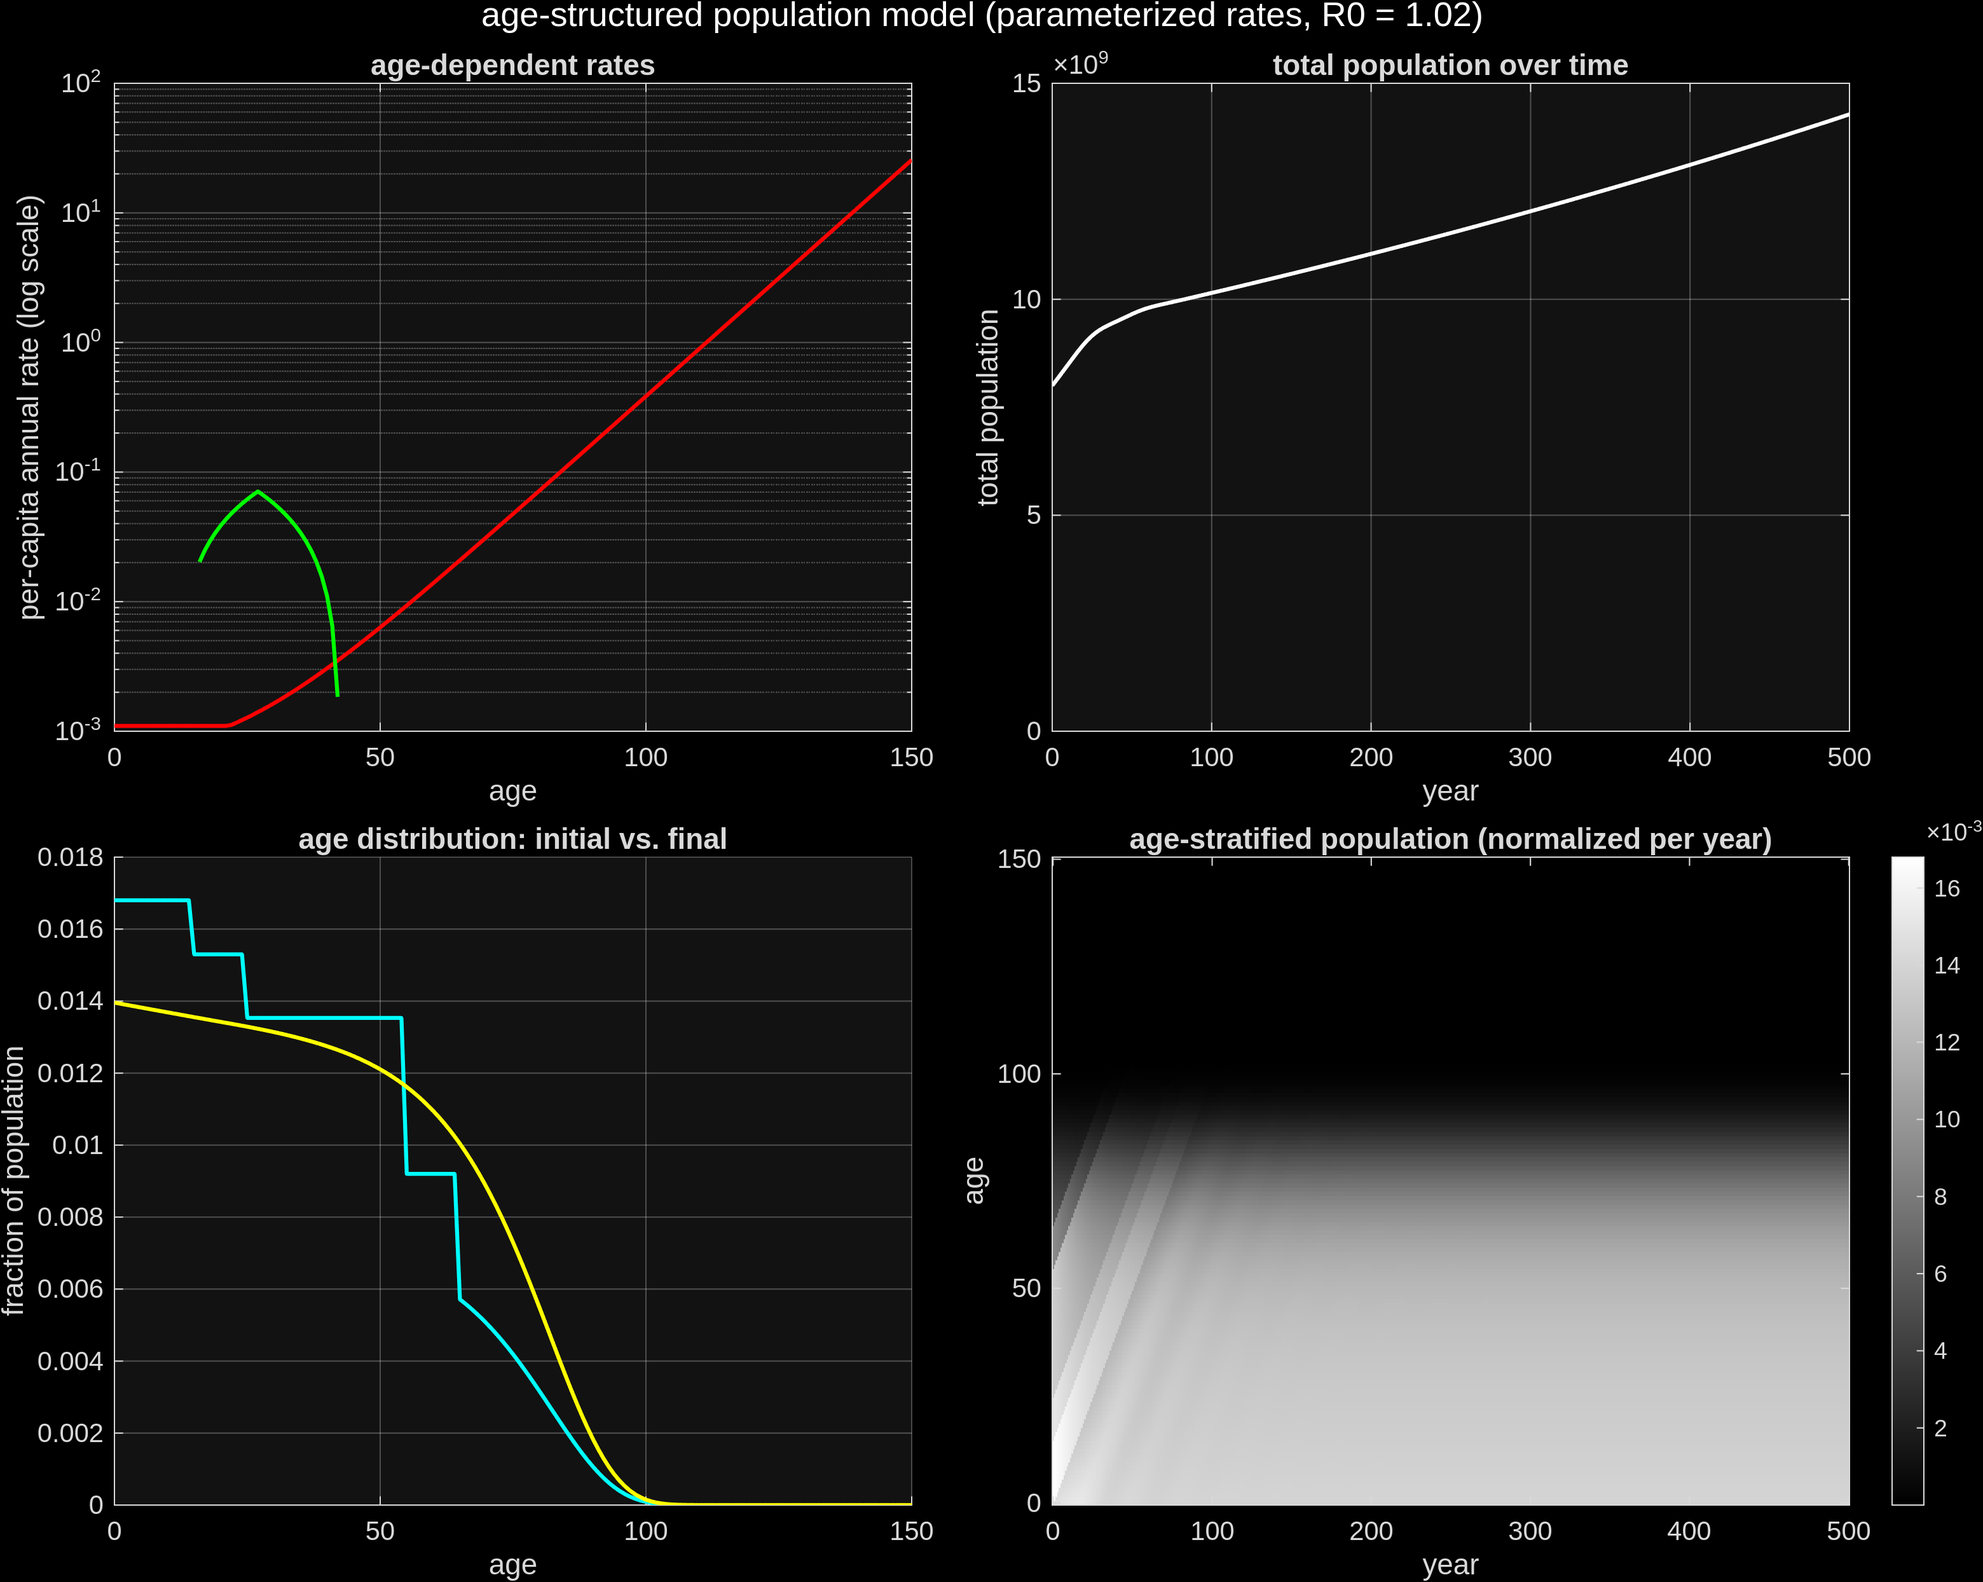
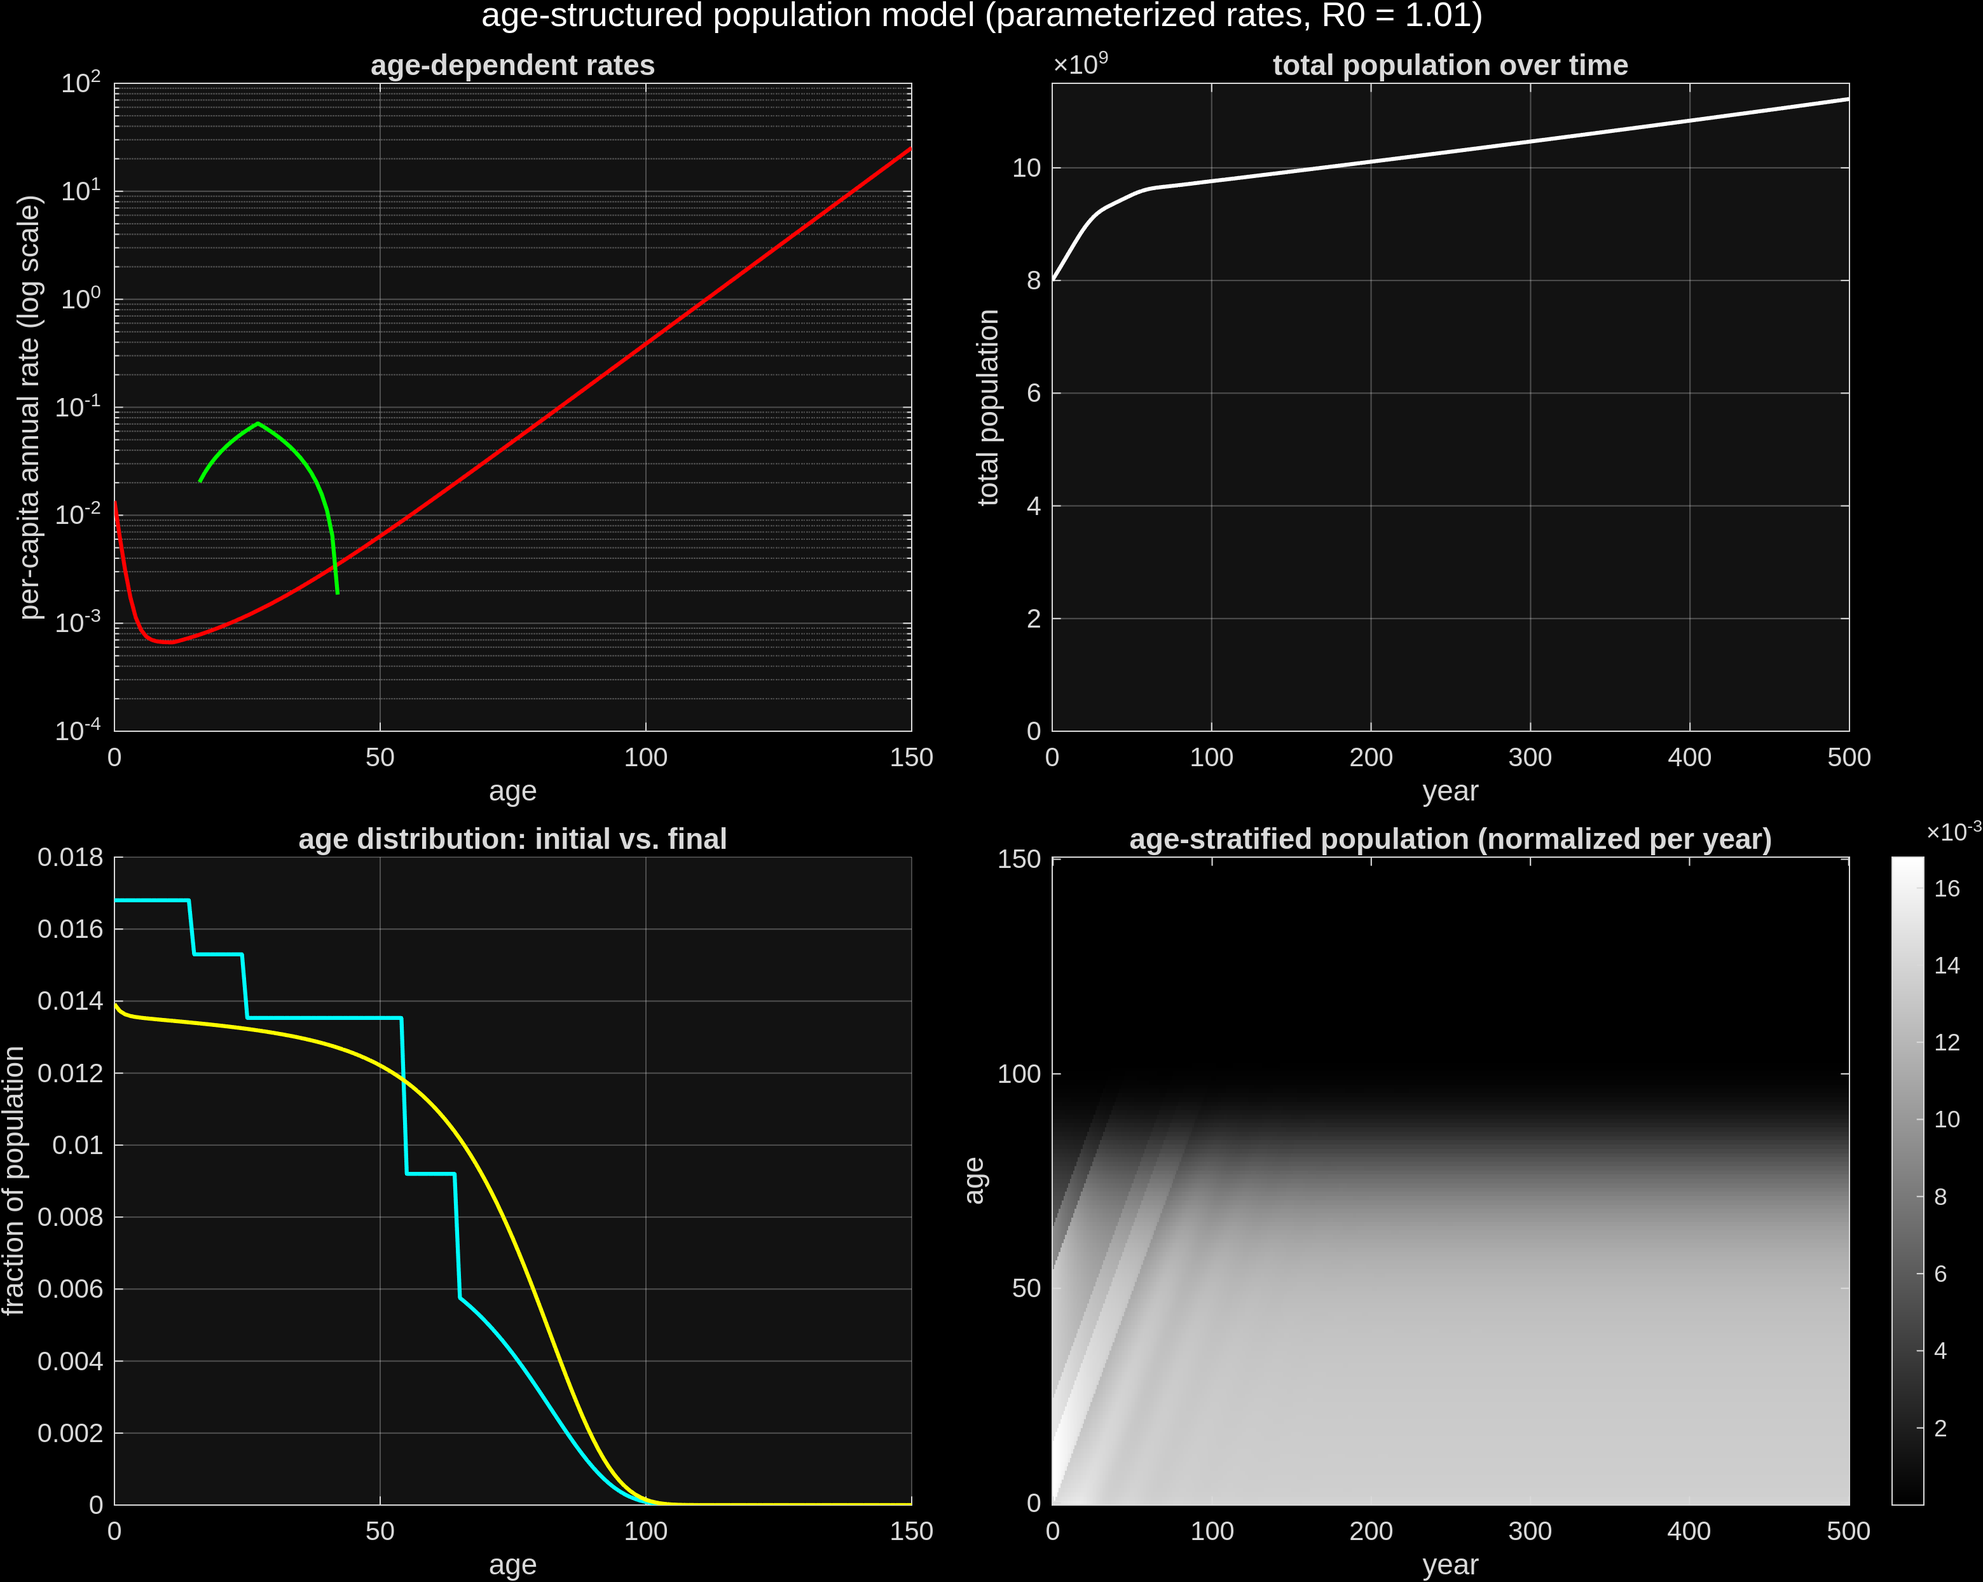
Add a distinct infant-mortality term for a much better empirical fit
Eq. 1's mortality formula gains a third term, mu_i*exp(-age/tau_i)
(new params infantMortalityScale/infantMortalityDecay): an elevated,
decaying hazard at birth. Neither the baseline nor the cliff term is
ever decreasing in age, so without this the parameterized shape had
no way to represent the empirical curve's real early-childhood dip
(high at birth, lowest ~age 5-14, then rising) -- confirmed as the
root cause when the previous fit (without this term) came back with
deathRateSlope~=0 and a mediocre RMS log-residual of 0.34.

Refit all 7 mortality parameters jointly with the new term included:
RMS log-residual drops to 0.15 (less than half), the childhood dip is
now visually near-exact from ~age 3 onward, and deathRateSlope
recovers a real nonzero value since the baseline term no longer has
to (badly) stand in for the dip. Cross-validated: fully unscaled
(targetR0=[]) the new fit gives R0=1.01, closer to the empirical
mode's own R0=1.06 than the previous fit's 1.02.

Updated populationModel.md (Eq. 1 gains the infant term, Sec. 10's
discussion rewritten around the before/after comparison, Parameter
reference table gets the 2 new rows + refit values, Eq. 10's
numerical validation re-verified) and README (R0 estimate, and the
top-left panel description no longer implies the U-shape is
empirical-only -- parameterized mode now shows it too).

diff --git a/doIt.m b/doIt.m
@@ -18,19 +18,24 @@ rateSource = 'parameterized';   % 'empirical' (current real-world age-specific r
                              % way, whether fertility gets rescaled is controlled by targetR0 below,
                              % not by this choice. See README "Rate source" for details/sources.
 ageMax     = 150;      % y, oldest age class (plus-group: survivors accumulate here)
-steepAgeFrac        = 0.144;    % fraction of ageMax past which mortality accelerates sharply (senescence cliff)
-steepMortalityScale = 0.00053;  % extra-hazard scale added past steepAgeFrac*ageMax
-steepMortalityRate  = 0.084;    % extra-hazard growth rate (per year) past steepAgeFrac*ageMax; higher = sharper cliff
+steepAgeFrac        = 0.0734;   % fraction of ageMax past which mortality accelerates sharply (senescence cliff)
+steepMortalityScale = 0.000227; % extra-hazard scale added past steepAgeFrac*ageMax
+steepMortalityRate  = 0.0836;   % extra-hazard growth rate (per year) past steepAgeFrac*ageMax; higher = sharper cliff
 nYears     = 500;     % y, simulation horizon
 popInit    = 8e9;   % total starting population, distributed across ages per the real-world
                        % 2021-2023 world age structure below (itself NOT the model's own stable age
                        % distribution, so the model's convergence to its own shape over time is visible)
 
-% Mortality: per-capita annual death rate, AGE-DEPENDENT, rising with age (Gompertz-like). Defaults
-% below are fit (least squares in log-hazard space, fminsearch) to the empirical mortality curve
-% (rateSource='empirical', including its old-age extrapolation) -- see populationModel.md Sec. 10.
-deathRateBase  = 0.0011;   % baseline hazard at age 0
-deathRateSlope = 0;        % additional hazard at age ageMax (hazard = base + slope*(age/ageMax)^2) -- fit to ~0: the empirical curve's rise is better captured by the cliff term alone (below) than a separate old-age-specific quadratic
+% Mortality: per-capita annual death rate, AGE-DEPENDENT, rising with age (Gompertz-like), PLUS a
+% distinct infant-mortality term (elevated hazard at birth, decaying away over early childhood) --
+% neither the baseline nor the cliff term alone can represent that childhood dip (both are
+% monotonically non-decreasing in age). Defaults below are fit jointly (least squares in log-hazard
+% space, fminsearch) to the empirical mortality curve (rateSource='empirical', including its old-age
+% extrapolation) -- see populationModel.md Sec. 10.
+infantMortalityScale = 0.0129;   % excess hazard at age 0 from the infant-mortality term
+infantMortalityDecay = 1.21;     % y, its decay time constant (hazard ~ exp(-age/this), so ~gone within a few years)
+deathRateBase  = 0.00066;  % baseline hazard at age 0 (excluding the infant term)
+deathRateSlope = 0.00057;  % additional hazard at age ageMax (hazard = base + slope*(age/ageMax)^2)
 
 % Fertility: per-capita annual fertility rate, AGE-DEPENDENT, triangular over a fertile age window
 % (zero outside it, so births only come from ages in [fertileMin fertileMax]), peaking at
@@ -60,7 +65,8 @@ nAge   = numel(ageVec);
 %%% age-specific rates (both birth and death vary with age, not constant across the population)
 switch rateSource
 case 'parameterized'
-    mortality = deathRateBase + deathRateSlope * (ageVec/ageMax).^2;   % per-capita annual hazard, increases with age
+    mortality = infantMortalityScale * exp(-ageVec/infantMortalityDecay) + ...   % elevated hazard at birth, decaying over early childhood
+                deathRateBase + deathRateSlope * (ageVec/ageMax).^2;             % per-capita annual hazard, increases with age
     steepAgeThreshold = steepAgeFrac * ageMax;
     pastSteepAge = ageVec > steepAgeThreshold;
     mortality(pastSteepAge) = mortality(pastSteepAge) + steepMortalityScale * (exp(steepMortalityRate*(ageVec(pastSteepAge)-steepAgeThreshold)) - 1);   % sharp senescence cliff past steepAgeFrac*ageMax

diff --git a/populationModel.md b/populationModel.md
@@ -30,21 +30,26 @@ genuine steady state — the property the project is named for.
 *(This section, and §3 below, describe the `rateSource='parameterized'` mode. §9 gives the
 `'empirical'` alternative -- the project's own default.)*
 
-Baseline hazard rises with age (Gompertz-like), plus a sharp senescence cliff past a configurable
-fraction $f_s$ (`steepAgeFrac`) of the maximum age:
+Three terms: a decaying excess hazard at birth (infant mortality), a slowly-rising baseline
+(Gompertz-like ageing), and a sharp senescence cliff past a configurable fraction $f_s$
+(`steepAgeFrac`) of the maximum age:
 
 $$
-\mu(a) = \underbrace{\mu_0 + \mu_1\left(\frac{a}{A}\right)^2}_{\text{baseline ageing}} \;+\;
+\mu(a) = \underbrace{\mu_i\, e^{-a/\tau_i}}_{\text{infant mortality}} \;+\;
+\underbrace{\mu_0 + \mu_1\left(\frac{a}{A}\right)^2}_{\text{baseline ageing}} \;+\;
 \underbrace{\mathbb{1}[a > f_s A]\cdot \mu_2\Big(e^{\,k\,(a - f_s A)} - 1\Big)}_{\text{senescence cliff}}
 \tag{1}
 $$
 
-where $\mu_0=$ `deathRateBase`, $\mu_1=$ `deathRateSlope`, $\mu_2=$ `steepMortalityScale`,
-$k=$ `steepMortalityRate`, and $\mathbb{1}[\cdot]$ is the indicator function. The cliff term is
+where $\mu_i=$ `infantMortalityScale`, $\tau_i=$ `infantMortalityDecay`, $\mu_0=$ `deathRateBase`,
+$\mu_1=$ `deathRateSlope`, $\mu_2=$ `steepMortalityScale`, $k=$ `steepMortalityRate`, and
+$\mathbb{1}[\cdot]$ is the indicator function. The infant term is what lets $\mu(a)$ have the real
+U-shape (high at birth, a childhood minimum, then rising) — neither of the other two terms is ever
+decreasing in $a$, so without it the model cannot represent that dip at all (§10). The cliff term is
 exactly zero at and before $a=f_s A$, then grows exponentially — with the current (fit, §10)
-defaults $f_s=0.144$, $A=150$, it kicks in at age $21.6$ and drives $\mu(150)\approx25.6$ (survival
-$\approx7\times10^{-12}$/yr) by `ageMax`. $\mu_1=0$ in the fit defaults: the cliff term alone
-captures the empirical curve's rise better than a separate baseline quadratic (§10).
+defaults $f_s=0.0734$, $A=150$, it kicks in at age $11.0$ (right where the infant term has mostly
+decayed away) and drives $\mu(150)\approx25.3$ (survival $\approx1.1\times10^{-11}$/yr) by
+`ageMax`.
 
 ## 2. Survival probability
 
@@ -207,24 +212,25 @@ replacement.)
 The `'parameterized'` defaults (Eqs. 1, 3) are not arbitrary hand-picks — they're a least-squares
 fit of those SAME functional forms to the `'empirical'` mortality/fertility curves of §9 (including
 §9's own old-age Gompertz extrapolation beyond age 84), via `fminsearch` (Nelder–Mead, unconstrained
-— parameters reparametrized through `exp`/logistic transforms to keep $\mu_0,\mu_1,\mu_2,k>0$ and
-$f_s\in(0,1)$).
+— parameters reparametrized through `exp`/logistic transforms to keep $\mu_i,\tau_i,\mu_0,\mu_1,\mu_2,k>0$
+and $f_s\in(0,1)$).
 
 **Mortality** is fit in LOG-hazard space (minimizing $\sum_a\big(\ln\mu_{\text{param}}(a)-\ln\mu_{\text{emp}}(a)\big)^2$)
-since $\mu$ spans several orders of magnitude with age. The fit found $\mu_1\approx0$: Eq. (1)'s
-baseline quadratic term contributes essentially nothing in the best fit — the senescence-cliff term
-alone, starting much younger ($f_sA\approx21.6$) than "late-life cliff" suggests, captures the
-empirical curve's overall rise better than baseline-plus-cliff can. This is an intrinsic limitation
-of Eq. (1), not a fitting failure: it has no mechanism for the empirical curve's early-childhood DIP
-(high at birth, lowest around age 5–14, then rising), since both of Eq. (1)'s terms are
-monotonically non-decreasing in age — the fit's residual concentrates there, not at the older ages
-that matter most for the model's long-run behavior.
+since $\mu$ spans several orders of magnitude with age. A first pass *without* the infant term
+(i.e. fitting only the baseline-plus-cliff part of Eq. 1) found $\mu_1\approx0$ and a mediocre fit
+(RMS log-residual $0.34$): with no term that's ever DEcreasing in age, that version of Eq. (1)
+structurally cannot represent the empirical curve's early-childhood dip (high at birth, lowest
+around age 5–14, then rising) — its best compromise just ignored that region. Adding the infant
+term (Eq. 1's first term) fixes this: refit jointly, RMS log-residual drops to $0.15$ (less than
+half), the childhood dip is now captured (visually near-exact from age $\sim$3 onward), and
+$\mu_1$ comes back to a real, nonzero value ($5.7\times10^{-4}$) since the baseline term is no
+longer needed to (badly) approximate the dip too.
 
 **Fertility** is fit in LINEAR space (minimizing $\sum_a(b_{0,\text{param}}(a)-b_{0,\text{emp}}(a))^2$),
 since $b_0$ includes true zeros where log-space is undefined.
 
 **Cross-validation**: running the fit defaults with `targetR0=[]` (completely unscaled, §5) gives
-$R_0\approx1.02$ — close to the empirical mode's own $R_0\approx1.06$ (§9), a good sign the fit
+$R_0\approx1.01$ — close to the empirical mode's own $R_0\approx1.06$ (§9), a good sign the fit
 captures the real data's overall reproduction level, not just its shape.
 
 ---
@@ -237,11 +243,13 @@ captures the real data's overall reproduction level, not just its shape.
 | $T$ | `nYears` | $500$ | simulation horizon |
 | — | `popInit` | $8\times10^9$ | total starting population |
 | — | — | — | initial age distribution: current real-world world age structure (CIA World Factbook, 2021-2023 estimates: 0-14 25.2%, 15-24 15.3%, 25-54 40.6%, 55-64 9.2%, 65+ 9.7%), not the model's own stable shape -- see Eq. (10) |
-| $\mu_0$ | `deathRateBase` | $0.0011$ | mortality hazard at age $0$ (fit, §10) |
-| $\mu_1$ | `deathRateSlope` | $0$ | added baseline hazard at age $A$ (fit to $\approx0$, §10) |
-| $f_s$ | `steepAgeFrac` | $0.144$ | age fraction of $A$ where the senescence cliff begins (fit, §10) |
-| $\mu_2$ | `steepMortalityScale` | $0.00053$ | extra-hazard scale past the cliff (fit, §10) |
-| $k$ | `steepMortalityRate` | $0.084$ | extra-hazard growth rate past the cliff (fit, §10) |
+| $\mu_i$ | `infantMortalityScale` | $0.0129$ | excess hazard at age $0$ from the infant-mortality term (fit, §10) |
+| $\tau_i$ | `infantMortalityDecay` | $1.21$ | its decay time constant, years (fit, §10) |
+| $\mu_0$ | `deathRateBase` | $0.00066$ | baseline hazard at age $0$, excluding the infant term (fit, §10) |
+| $\mu_1$ | `deathRateSlope` | $0.00057$ | added baseline hazard at age $A$ (fit, §10) |
+| $f_s$ | `steepAgeFrac` | $0.0734$ | age fraction of $A$ where the senescence cliff begins (fit, §10) |
+| $\mu_2$ | `steepMortalityScale` | $0.000227$ | extra-hazard scale past the cliff (fit, §10) |
+| $k$ | `steepMortalityRate` | $0.0836$ | extra-hazard growth rate past the cliff (fit, §10) |
 | $a_{\min}$ | `fertileMin` | $15.1$ | youngest fertile age (fit, §10) |
 | $a_{\max}$ | `fertileMax` | $42.4$ | oldest fertile age (fit, §10) |
 | $a^*$ | `fertilityPeakAge` | $27.0$ | age of peak fertility (fit, §10) |

diff --git a/README.md b/README.md
@@ -7,7 +7,7 @@ cohorts forward in time. By default (`rateSource='parameterized'`) those rates a
 least squares to the world's actual current age-specific rates (see [Rate
 source](#rate-source)/[populationModel.md](populationModel.md) §10), so they closely track reality
 while staying analytically simple. By default (`targetR0=[]`) they're also left unscaled, so the
-model reports whatever net reproduction rate that fit implies (currently R0 ≈ 1.02) rather than
+model reports whatever net reproduction rate that fit implies (currently R0 ≈ 1.01) rather than
 forcing one — set `targetR0=1` to instead calibrate fertility so the population settles into a
 genuine **steady state**, the property this project is named for; see
 [`populationModel.md`](populationModel.md) for why that particular calibration works.
@@ -15,10 +15,10 @@ genuine **steady state**, the property this project is named for; see
 ![age-structured population model](figures/populationModel.png)
 
 - **top-left** — the age-dependent rates driving the model: mortality (red) and fertility (green)
-  by age, on a log axis (mortality alone spans ~4 orders of magnitude from age 0 to `ageMax`).
-  With the default parameterized rates these are smooth curves fit to the real data; switch to
-  `rateSource='empirical'` to see the real, unsmoothed age-band curves instead (a genuinely
-  U-shaped mortality curve, low through childhood/adulthood then rising sharply past ~50).
+  by age, on a log axis (mortality alone spans ~4 orders of magnitude from age 0 to `ageMax`). Both
+  rate sources show the same real U-shaped mortality pattern (high at birth, a childhood minimum,
+  then rising) — the default parameterized curves are a smooth fit to it (populationModel.md §10);
+  switch to `rateSource='empirical'` to see the real, unsmoothed age-band data instead.
 - **top-right** — total population over time. Its *shape* settles quickly regardless; whether the
   *total* itself levels off depends on [`targetR0`](#net-reproduction-rate-r0) — it doesn't by
   default (`targetR0=[]`, mild growth at whatever R0 the rates actually imply), but does with
@@ -48,7 +48,7 @@ to `targetR0` is a *separate*, independent choice — see [Net reproduction rate
 - **`'parameterized'`** (default) — smooth Gompertz-plus-senescence-cliff mortality (Eq. 1) and
   triangular fertility (Eq. 3) from [`populationModel.md`](populationModel.md). Its defaults aren't
   arbitrary: they're least-squares fit to the `'empirical'` curves below (§10), so even fully
-  unscaled (`targetR0=[]`) they land close to the real net reproduction rate (R0 ≈ 1.02 vs. the
+  unscaled (`targetR0=[]`) they land close to the real net reproduction rate (R0 ≈ 1.01 vs. the
   real ≈ 1.06).
 - **`'empirical'`** — the current real-world age-specific rates for the World: fertility from the
   2023 age-specific fertility rate by 5-year age band, and mortality from the 2021 life table's
